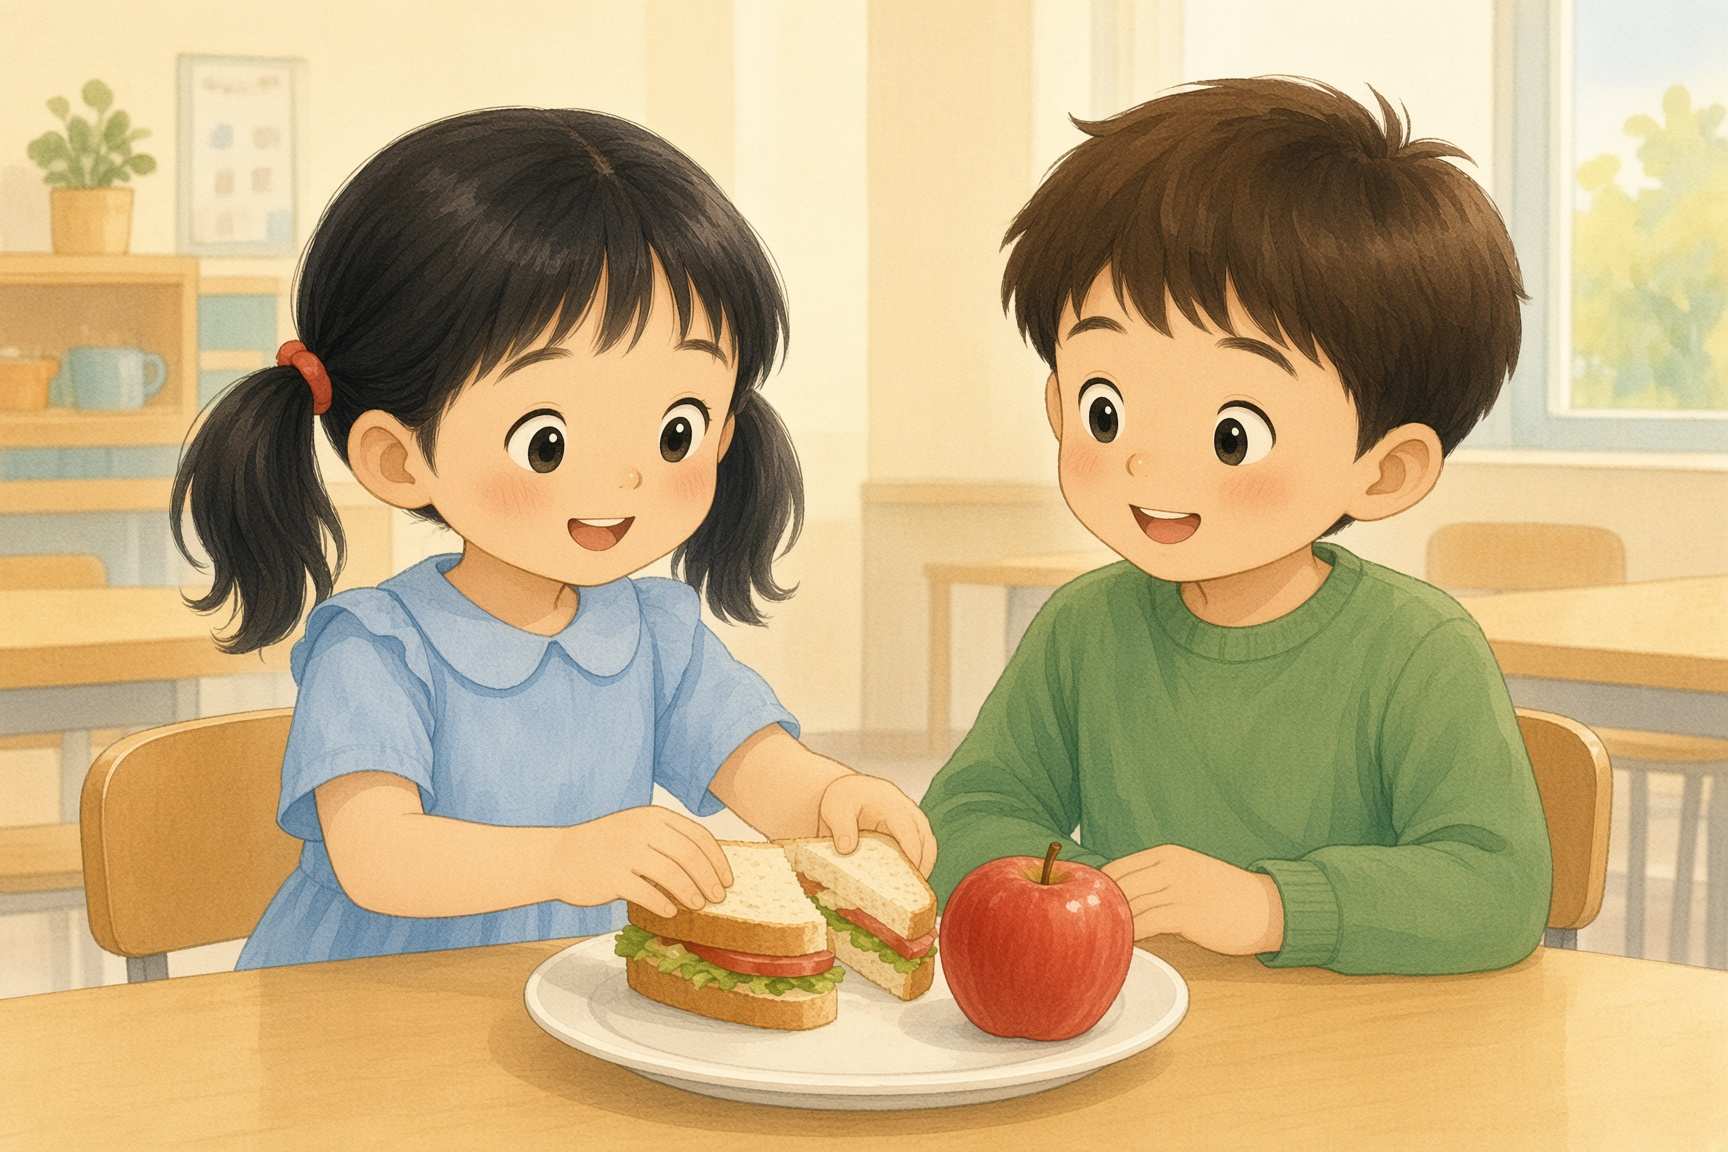
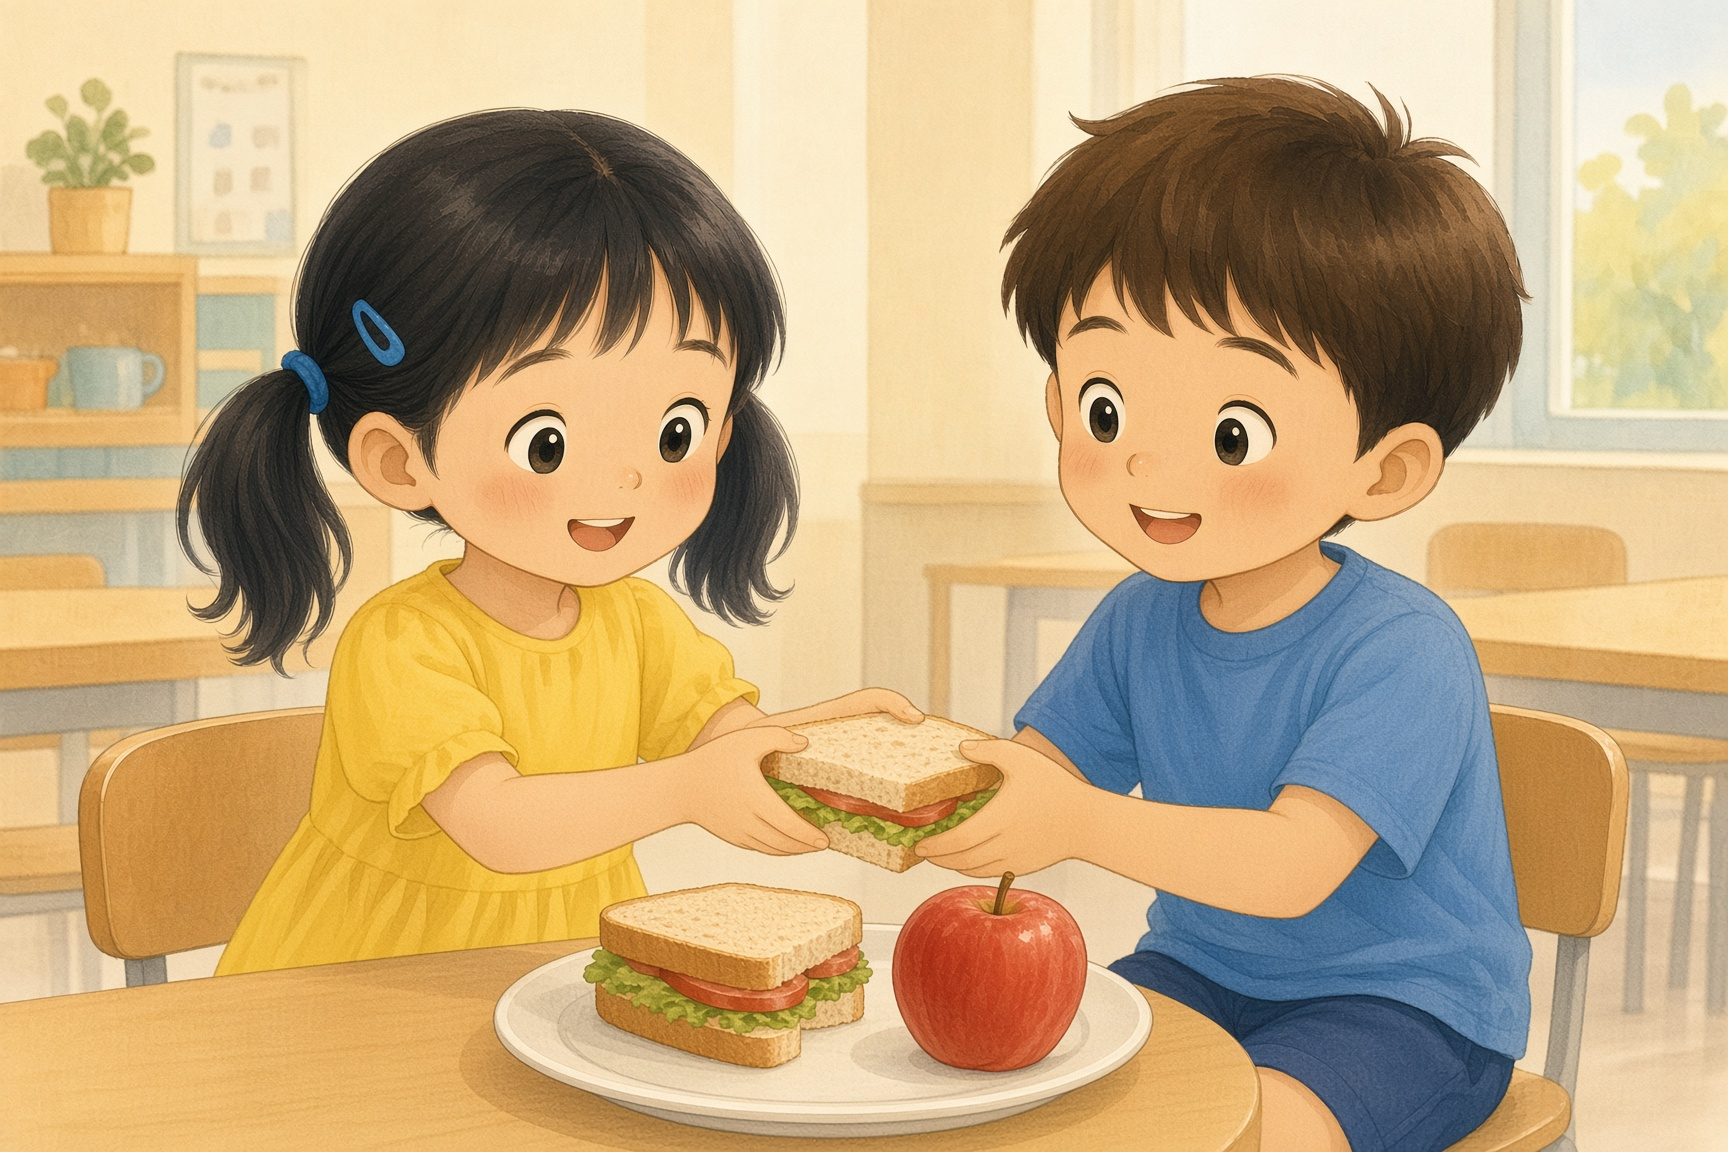
Fix comic continuity: same child falls, lunch classmate stays in blue
操場上的跌倒：綠衣同學全程是跌倒的人，樂樂白衣來幫忙。
半塊三文治：沒帶午餐的同學第二至四格改回藍衣，與第一格一致。

diff --git a/stories.js b/stories.js
@@ -90,22 +90,22 @@ window.STORIES = [
       {
         caption: "操場上，有同學跑步時跌倒了。",
         hint: "發生了什麼事？誰受傷？",
-        image: "comics/fall/1.jpg",
+        image: "comics/fall/1.jpg?v=2",
       },
       {
         caption: "其他人繼續跑，樂樂停下來走過去。",
         hint: "別的小朋友怎樣？樂樂怎樣？",
-        image: "comics/fall/2.jpg",
+        image: "comics/fall/2.jpg?v=2",
       },
       {
         caption: "樂樂和安安扶起同學，陪他走。",
         hint: "他們怎樣幫助同學？",
-        image: "comics/fall/3.jpg",
+        image: "comics/fall/3.jpg?v=2",
       },
       {
         caption: "護士幫同學搽藥，同學多謝樂樂。",
         hint: "後來誰來幫忙？結果怎樣？",
-        image: "comics/fall/4.jpg",
+        image: "comics/fall/4.jpg?v=2",
       },
     ],
     starters: [
@@ -322,17 +322,17 @@ window.STORIES = [
       {
         caption: "安安看見同學難過，看了看自己的食物。",
         hint: "安安發現了什麼？她的心情怎樣？",
-        image: "comics/lunch/2.jpg",
+        image: "comics/lunch/2.jpg?v=2",
       },
       {
         caption: "安安把三文治分開，分給同學。",
         hint: "她怎樣幫助同學？",
-        image: "comics/lunch/3.jpg",
+        image: "comics/lunch/3.jpg?v=2",
       },
       {
         caption: "兩人一起吃飯，都笑了。",
         hint: "結果怎樣？分享之後有什麼感覺？",
-        image: "comics/lunch/4.jpg",
+        image: "comics/lunch/4.jpg?v=2",
       },
     ],
     starters: [
